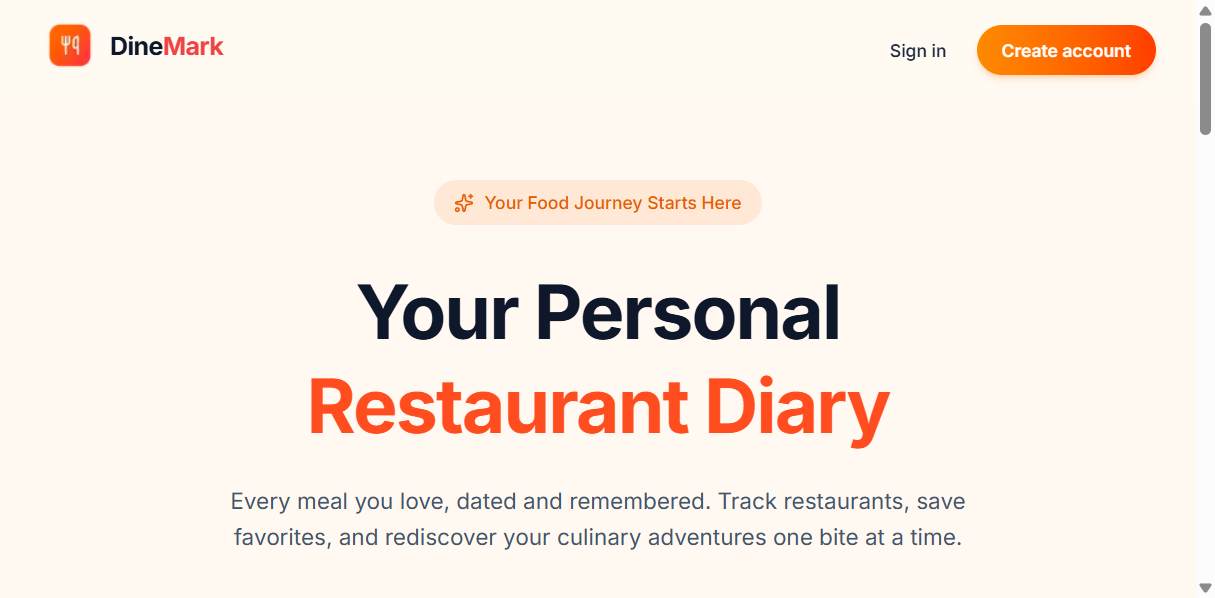
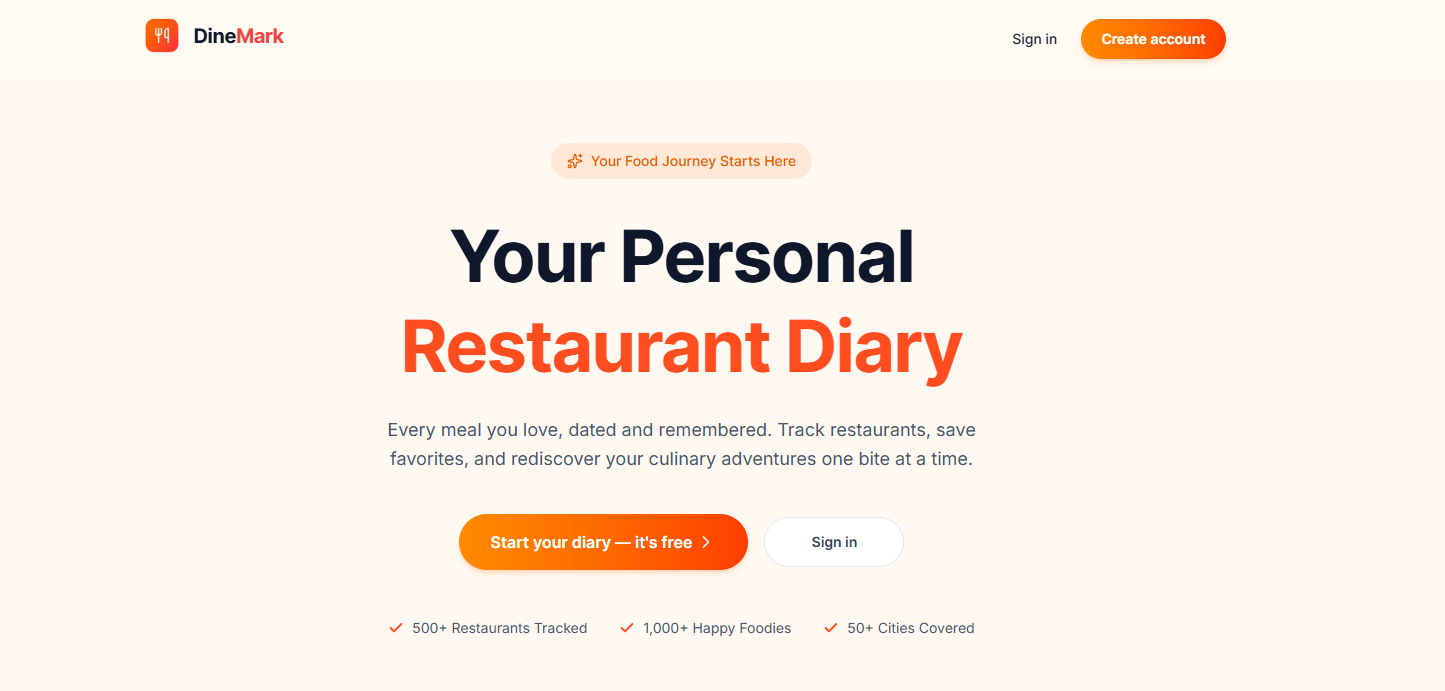
refactor navbar

diff --git a/src/components/ProjectsSection.tsx b/src/components/ProjectsSection.tsx
@@ -27,7 +27,7 @@ export function ProjectsSection() {
               >
                 <div className="w-full overflow-hidden rounded-xl border border-white/20 shadow-xl">
                   <BrowserFrame url={project.urlLabel} trafficLights>
-                    <div className="h-80 w-full overflow-hidden bg-slate-900">
+                    <div className="h-110 w-full overflow-hidden bg-slate-900">
                       <img
                         alt={project.imageAlt}
                         className="h-full w-full object-cover object-top"

diff --git a/src/components/Navbar.tsx b/src/components/Navbar.tsx
@@ -51,7 +51,7 @@ export function Navbar() {
           {navLinks.map((link) => (
             <a
               key={link.href}
-              className={`text-sm font-medium transition-colors hover:text-primary ${active === link.href ? 'text-text-main' : 'text-text-muted'}`}
+              className={`text-sm font-medium transition-colors hover:text-primary ${active === link.href ? 'hover:text-primary text-text-main' : 'text-text-muted'}`}
               href={link.href}
             >
               {link.label}
